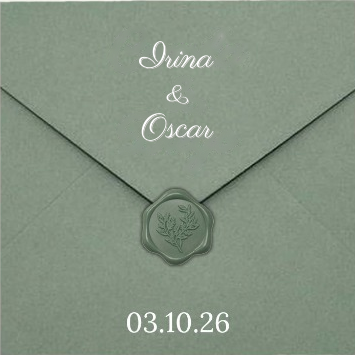
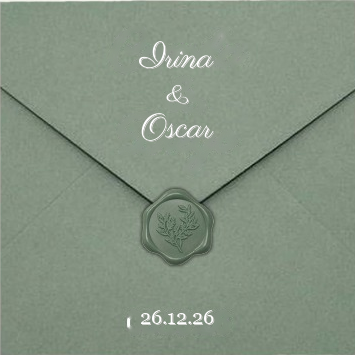
Actualizar fecha a 26 de Diciembre, ubicaciones en Google Maps, foto de iglesia y meta tags de vista previa

Changed region(s): [[0.3408, 0.8676, 0.6507, 0.9606]]

diff --git a/index.html b/index.html
@@ -5,11 +5,24 @@
     <meta name="viewport" content="width=device-width, initial-scale=1.0, maximum-scale=1.0, user-scalable=no">
     <title>¡Nos Casamos! - Irina & Oscar</title>
     
-    <!-- Metatags para compartir en WhatsApp y Redes Sociales -->
+        <!-- Metatags para compartir en WhatsApp y Redes Sociales con Vista Previa -->
     <meta property="og:type" content="website">
-    <meta property="og:title" content="¡Nos Casamos! Irina & Oscar">
-    <meta property="og:description" content="Acompáñanos a celebrar nuestra boda. Ingresa para conocer todos los detalles.">
-    <meta property="og:image" content="assets/img/IMAGEN-HEADERport.jpg">
+    <meta property="og:site_name" content="Invitación de Boda">
+    <meta property="og:title" content="¡Nos Casamos! Irina & Oscar 💍">
+    <meta property="og:description" content="Acompáñanos a celebrar nuestra boda este Sábado 26 de Diciembre de 2026. Haz clic para ver todos los detalles y confirmar tu asistencia.">
+    <meta property="og:url" content="https://4puts.github.io/boda-irina-oscar/">
+    <meta property="og:image" content="https://4puts.github.io/boda-irina-oscar/assets/img/vista_previa_og.jpg">
+    <meta property="og:image:secure_url" content="https://4puts.github.io/boda-irina-oscar/assets/img/vista_previa_og.jpg">
+    <meta property="og:image:type" content="image/jpeg">
+    <meta property="og:image:width" content="1200">
+    <meta property="og:image:height" content="630">
+    <meta property="og:locale" content="es_ES">
+
+    <!-- Twitter Card -->
+    <meta name="twitter:card" content="summary_large_image">
+    <meta name="twitter:title" content="¡Nos Casamos! Irina & Oscar 💍">
+    <meta name="twitter:description" content="Acompáñanos a celebrar nuestra boda este Sábado 26 de Diciembre de 2026. Haz clic para ver los detalles.">
+    <meta name="twitter:image" content="https://4puts.github.io/boda-irina-oscar/assets/img/vista_previa_og.jpg">
     
     <!-- Google Fonts -->
     <link rel="preconnect" href="https://fonts.googleapis.com">
@@ -1063,7 +1076,7 @@
                 <span></span>
             </div>
 
-            <p class="hero-fecha">Sábado, 24 de Octubre de 2026</p>
+            <p class="hero-fecha">Sábado, 26 de Diciembre de 2026</p>
 
             <!-- Contador Regresivo -->
             <div class="countdown-container">
@@ -1111,41 +1124,41 @@
         </div>
 
         <div class="cards-grid">
-            <!-- Ceremonia -->
+            <!-- Ceremonia Religiosa -->
             <div class="card-evento">
                 <div class="card-img-wrap">
-                    <img src="assets/img/CEREMONIA1-IMGcere.jpg" alt="Ceremonia Religiosa">
+                    <img src="assets/img/CEREMONIA1-IMGcere.jpg" alt="Santuario de la Virgen del Rosario" style="object-position: center;">
                 </div>
                 <div class="card-body">
                     <div>
                         <div class="card-tipo">Ceremonia Religiosa</div>
-                        <h3 class="card-lugar">Parroquia Santa Elena</h3>
+                        <h3 class="card-lugar">Santuario de la Virgen del Rosario</h3>
                         <div class="card-info">
+                            <p><i class="fa-regular fa-calendar"></i> <strong>Fecha:</strong> Sábado, 26 de Diciembre de 2026</p>
                             <p><i class="fa-regular fa-clock"></i> <strong>Hora:</strong> 17:00 hrs</p>
-                            <p><i class="fa-solid fa-location-dot"></i> Av. Las Rosas #450, Centro</p>
                         </div>
                     </div>
-                    <a href="https://maps.google.com" target="_blank" class="btn-card">
+                    <a href="https://share.google/CIPQQ4pyFRIrJj0bQ" target="_blank" rel="noopener noreferrer" class="btn-card">
                         <i class="fa-solid fa-map-location-dot"></i> Cómo Llegar
                     </a>
                 </div>
             </div>
 
-            <!-- Recepción -->
+            <!-- Recepción & Fiesta -->
             <div class="card-evento">
                 <div class="card-img-wrap">
-                    <img src="assets/img/CEREMONIA2-IMGrecep.jpg" alt="Recepción">
+                    <img src="assets/img/CEREMONIA2-IMGrecep.jpg" alt="Club de Leones A.C.">
                 </div>
                 <div class="card-body">
                     <div>
                         <div class="card-tipo">Recepción & Fiesta</div>
-                        <h3 class="card-lugar">Hacienda Monte Olivo</h3>
+                        <h3 class="card-lugar">Club de Leones A.C.</h3>
                         <div class="card-info">
+                            <p><i class="fa-regular fa-calendar"></i> <strong>Fecha:</strong> Sábado, 26 de Diciembre de 2026</p>
                             <p><i class="fa-regular fa-clock"></i> <strong>Hora:</strong> 19:00 hrs</p>
-                            <p><i class="fa-solid fa-location-dot"></i> Carretera Nacional Km 14.5</p>
                         </div>
                     </div>
-                    <a href="https://maps.google.com" target="_blank" class="btn-card">
+                    <a href="https://share.google/N5kFb3v3eNZvfjcDo" target="_blank" rel="noopener noreferrer" class="btn-card">
                         <i class="fa-solid fa-map-location-dot"></i> Cómo Llegar
                     </a>
                 </div>
@@ -1324,7 +1337,7 @@
 
         <div class="rsvp-card">
             <p style="color: var(--color-texto-muted); font-size: 0.95rem; margin-bottom: 25px;">
-                Por favor confírmanos antes del <strong>1 de Octubre de 2026</strong> para considerarte en el banquete y reservación de lugares.
+                Por favor confírmanos antes del <strong>1 de Diciembre de 2026</strong> para considerarte en el banquete y reservación de lugares.
             </p>
 
             <form id="rsvpForm" onsubmit="enviarWhatsApp(event)">
@@ -1380,7 +1393,7 @@
             <span class="footer-hashtag">#BodaIrinaYOscar</span>
         </div>
         <p class="footer-creditos">
-            Invitación Digital de Boda &bull; Octubre 2026
+            Invitación Digital de Boda &bull; Diciembre 2026
         </p>
     </footer>
 
@@ -1421,7 +1434,7 @@
         });
 
         // 2. Cuenta Regresiva
-        const fechaBoda = new Date('2026-10-24T17:00:00').getTime();
+        const fechaBoda = new Date('2026-12-26T17:00:00').getTime();
 
         function actualizarContador() {
             const ahora = new Date().getTime();
